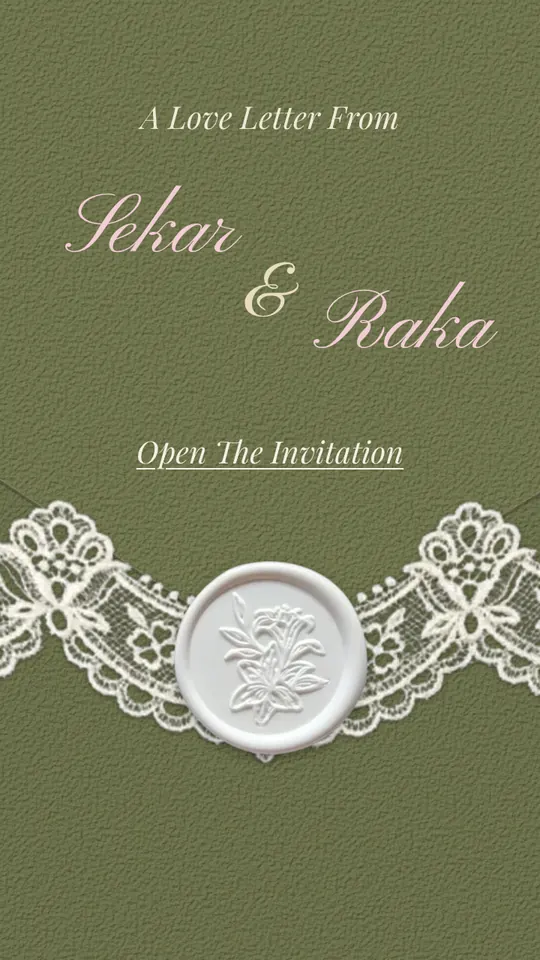
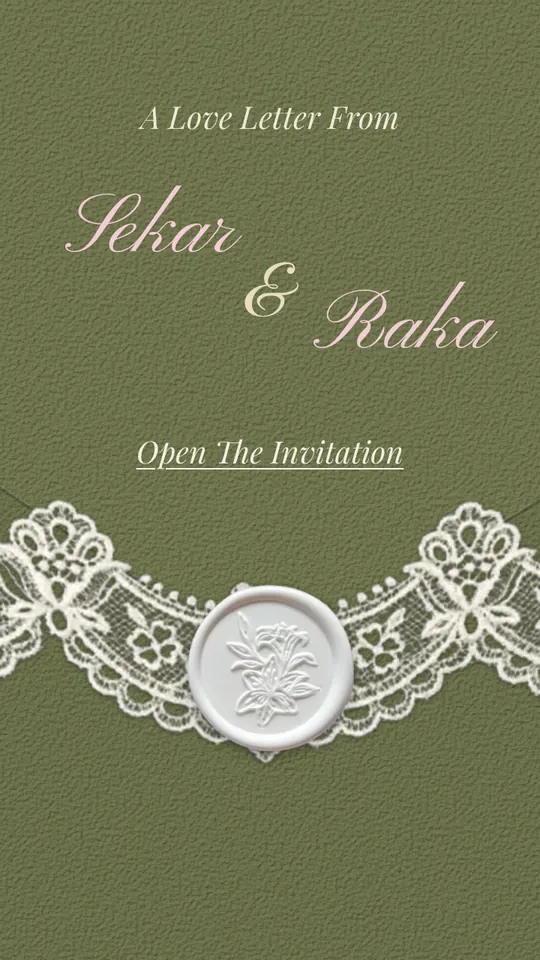
Lili: cap lilin cover lebih kecil (132) & sedikit lebih rendah (pusat y 498)

Changed region(s): [[0.3259, 0.5625, 0.6815, 0.7812]]

diff --git a/src/themes/lili/sections/Cover.tsx b/src/themes/lili/sections/Cover.tsx
@@ -118,16 +118,16 @@ export function LiliCover({ onOpen, startMusic }: CoverProps) {
             overflow: "visible",
           }}
         >
-          <path d="M-400 84 L215 490 L830 113 V900 H-400Z" fill="rgb(0 0 0 / 0.045)" />
+          <path d="M-400 84 L215 498 L830 113 V900 H-400Z" fill="rgb(0 0 0 / 0.045)" />
           <path
-            d="M-400 84 L215 490 L830 113"
+            d="M-400 84 L215 498 L830 113"
             fill="none"
             stroke="rgb(0 0 0 / 0.2)"
             strokeWidth={3}
             transform="translate(0 1.6)"
           />
           <path
-            d="M-400 84 L215 490 L830 113"
+            d="M-400 84 L215 498 L830 113"
             fill="none"
             stroke="rgb(255 255 255 / 0.14)"
             strokeWidth={1.2}
@@ -246,7 +246,7 @@ export function LiliCover({ onOpen, startMusic }: CoverProps) {
 
         <div
           className="li-c-seal"
-          style={{ position: "absolute", left: c(138), top: c(413), width: c(154), height: c(154) }}
+          style={{ position: "absolute", left: c(149), top: c(432), width: c(132), height: c(132) }}
         >
           <Image
             src={waxSeal}

diff --git a/src/themes/registry.generated.ts b/src/themes/registry.generated.ts
@@ -13,7 +13,7 @@ export type ThemeId = "confetti-party" | "lili" | "pita-krayon" | "renda-rimba" 
 /** Thumbnail screenshot cover (pnpm themes:thumbs); tema tanpa file memakai gradien manifest. */
 export const THEME_THUMBS: Record<string, string> = {
   "confetti-party": "/theme-thumbs/confetti-party.webp?v=mwdqa5wu",
-  "lili": "/theme-thumbs/lili.webp?v=mwqc3pth",
+  "lili": "/theme-thumbs/lili.webp?v=mwqc9e8z",
   "pita-krayon": "/theme-thumbs/pita-krayon.webp?v=mwgt8gbv",
   "renda-rimba": "/theme-thumbs/renda-rimba.webp?v=mwdqaso1",
   "tirai-beludru": "/theme-thumbs/tirai-beludru.webp?v=mwdqb1lv",
